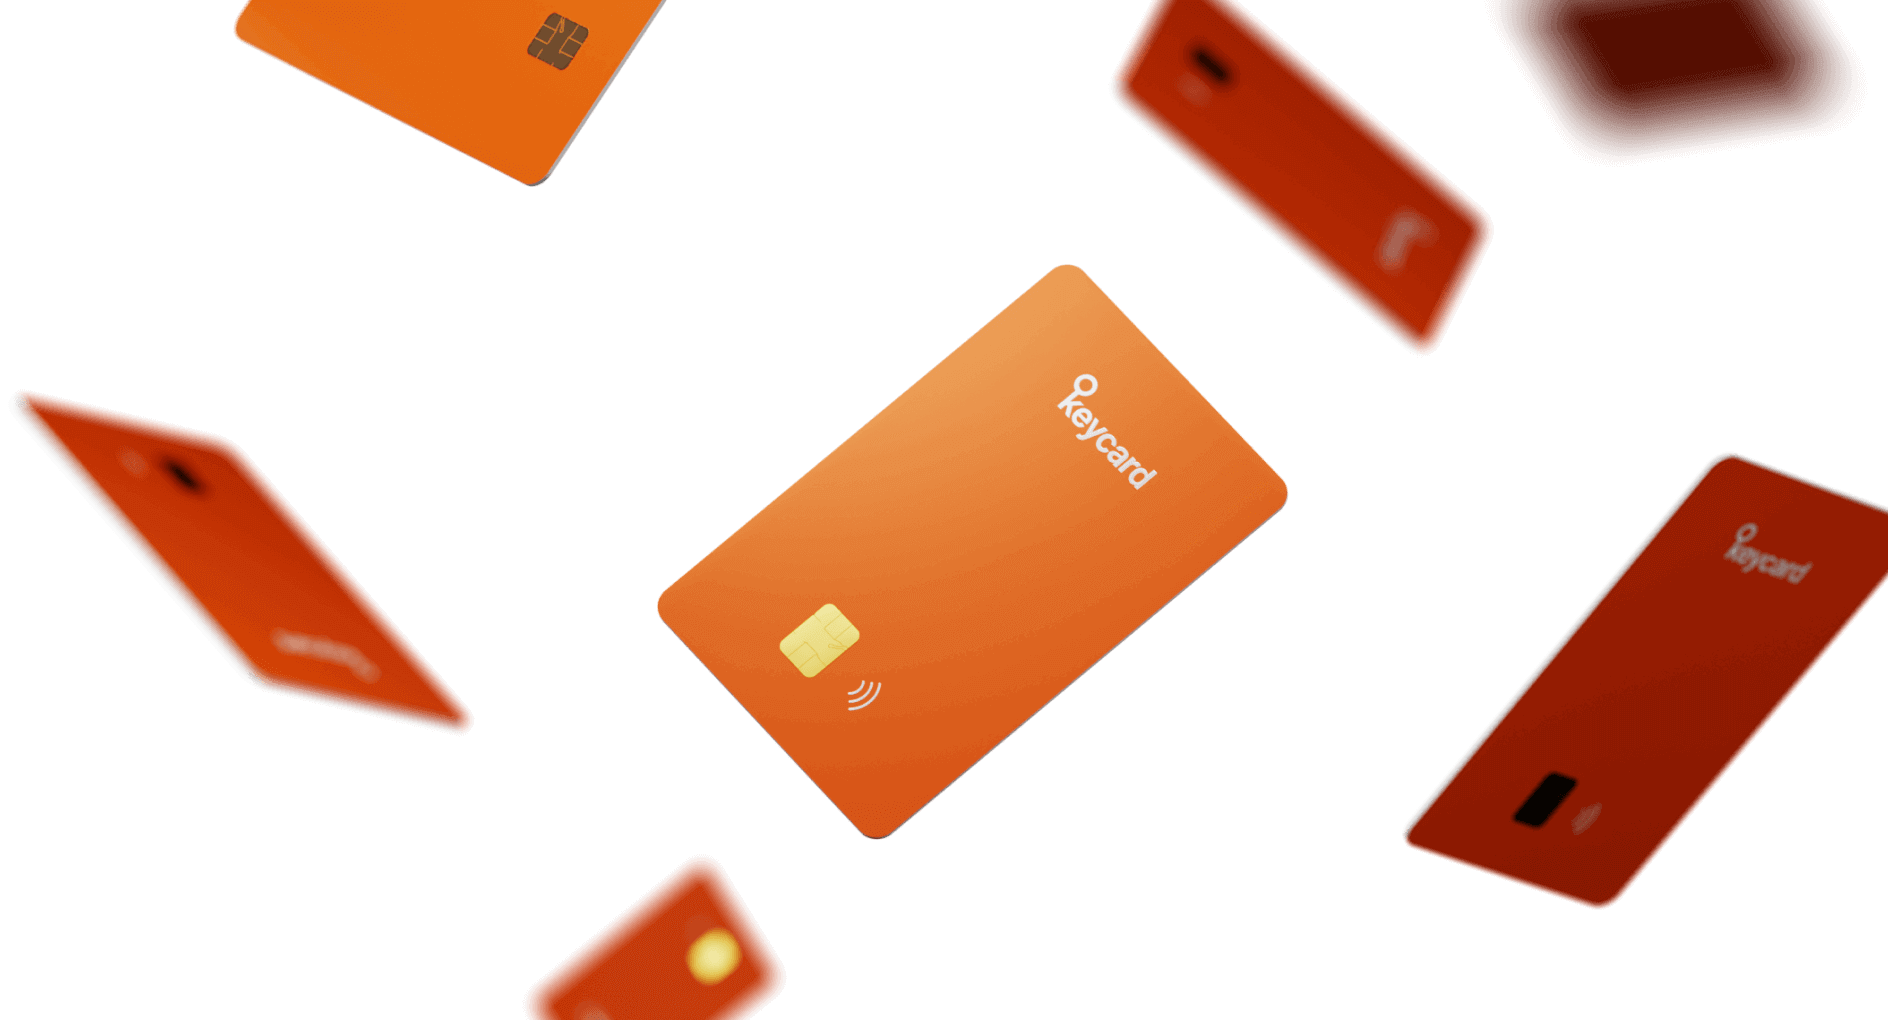
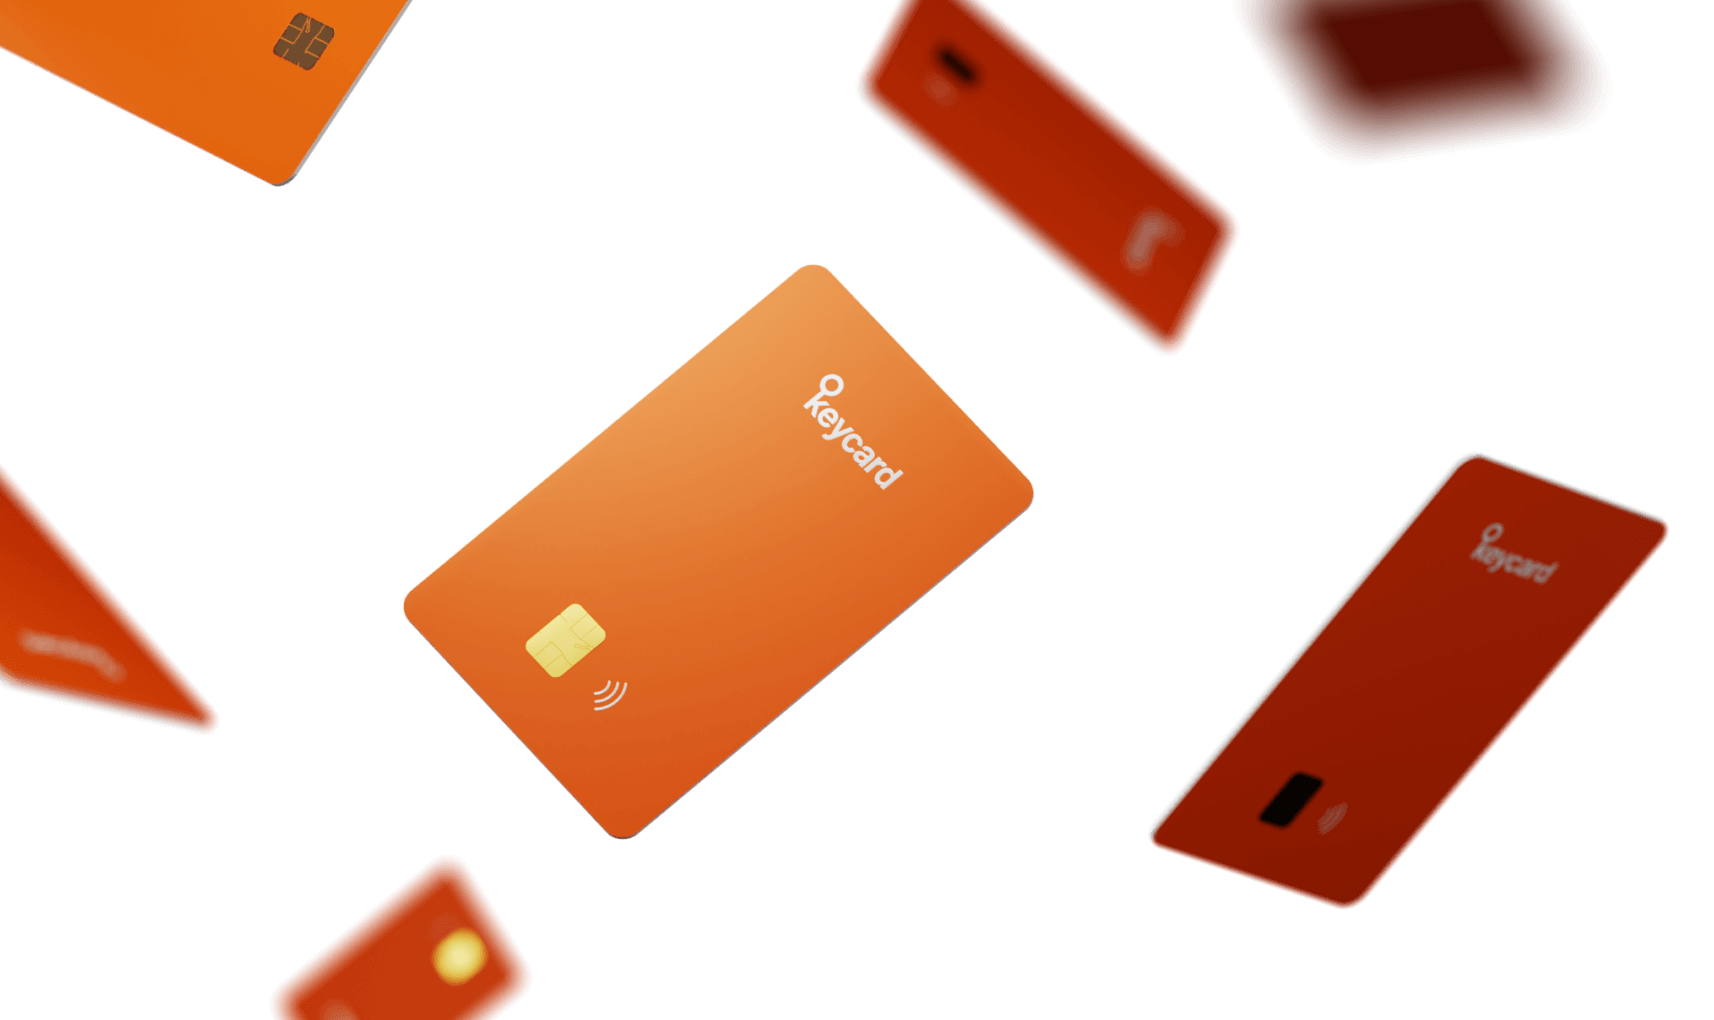
f

diff --git a/src/app/(with-navigation)/(homepage)/_components/keycard-shell.tsx b/src/app/(with-navigation)/(homepage)/_components/keycard-shell.tsx
@@ -1,18 +1,18 @@
 import { Button } from '~components/button'
 import { ButtonLink } from '~components/button-link'
-import { GetNotifiedDialog } from '~components/get-notified-dialog'
 import { Image } from '~components/image'
+import { PreOrderDialog } from '~components/pre-order-dialog'
 
 const KeycardShell = () => {
   return (
-    <section className="relative flex h-[calc(100svh-80px)] flex-col justify-end overflow-hidden rounded-b-28 border border-t-0 border-white-8 bg-white-4 backdrop-blur-[20px] full-view-port lg:h-auto lg:flex-row lg:items-center lg:justify-normal lg:remove-full-view-port">
+    <section className="relative flex h-[calc(100svh-80px-70px)] flex-col justify-between overflow-hidden rounded-t-28 border border-white-8 bg-white-4 backdrop-blur-[20px] full-view-port sm:h-[calc(100svh-80px-48px)] lg:h-auto lg:flex-row-reverse lg:items-center lg:justify-normal lg:remove-full-view-port">
       <div className="hidden max-h-[510px] flex-1 items-start justify-center overflow-hidden lg:flex">
         <Image
           src="/assets/keycard-shell.png"
           alt="Keycard Shell Hardware Wallet"
           width="758"
           height="758"
-          className="relative left-0 top-[-86px] object-cover object-center xl:top-[-128px] xl:object-contain"
+          className="relative right-0 top-[-86px] object-cover object-center xl:top-[-128px] xl:object-contain"
           priority
         />
       </div>
@@ -20,13 +20,13 @@ const KeycardShell = () => {
       <Image
         src="/assets/keycard-shell-mobile.png"
         alt="Keycard Shell Hardware Wallet"
-        width="900"
-        height="600"
-        className="self-end lg:hidden"
+        width="466"
+        height="466"
+        className="relative top-[-28px] w-full lg:hidden"
         priority
       />
 
-      <div className="relative z-10 -mt-16 flex max-w-[506px] flex-col px-5 pb-8 pt-0 lg:mt-0 lg:py-20 lg:pl-0 lg:pr-[72px]">
+      <div className="relative z-10 flex max-w-[434px] flex-col px-5 pb-5 lg:ml-[72px] lg:p-0">
         <p className="pb-2 text-24 font-600 text-white-95">
           keycard <span className="font-200">shell</span>
         </p>
@@ -40,9 +40,9 @@ const KeycardShell = () => {
           each with their own key.
         </p>
         <div className="flex gap-4">
-          <GetNotifiedDialog>
-            <Button>Get notified</Button>
-          </GetNotifiedDialog>
+          <PreOrderDialog>
+            <Button>Pre-order</Button>
+          </PreOrderDialog>
           <ButtonLink href="/keycard-shell" variant="secondary">
             Learn more
           </ButtonLink>

diff --git a/src/app/thank-you/page.tsx b/src/app/thank-you/page.tsx
@@ -1,10 +1,11 @@
 import { Background } from '~components/3d/background'
 import { Button } from '~components/button'
 import { ButtonLink } from '~components/button-link'
-import { GetNotifiedDialog } from '~components/get-notified-dialog'
 import { Link } from '~components/link'
 import { Logo } from '~components/logo'
+import { PreOrderDialog } from '~components/pre-order-dialog'
 import { cx } from 'cva'
+import Image from 'next/image'
 import { CheckoutUrlLink } from './_components/checkout-url-link'
 
 export default function ThankyouPage() {
@@ -43,28 +44,33 @@ export default function ThankyouPage() {
         className={cx(
           'absolute bottom-0 left-1/2 z-40 flex -translate-x-1/2 flex-col items-start justify-between gap-2 bg-white-8 p-1 pt-3 backdrop-blur-[20px] md:bottom-10',
           'rounded-16 border border-white-12 md:rounded-20',
-          'mx-auto w-full md:w-[570px] md:flex-row md:items-center md:gap-4 md:py-3 md:pl-5 md:pr-4',
+          'mx-auto w-full md:w-[570px] md:flex-row md:items-center md:gap-4 md:py-1 md:pl-1 md:pr-4',
         )}
       >
-        <div className="flex items-center gap-3 px-4 pb-4 md:px-0 md:pb-0">
-          <div className="flex flex-1 flex-col gap-0.5">
+        <div className="flex items-center gap-4 px-4 pb-4 md:px-0 md:pb-0">
+          <div className="flex size-16 items-center justify-center rounded-16 bg-dark-100">
+            <Image
+              src="/assets/pre-order-shell.png"
+              alt="Pre-order Shell"
+              width={48}
+              height={48}
+            />
+          </div>
+          <div className="flex flex-1 flex-col gap-0.5 py-2">
             <div className="font-lora text-20 text-white-95">
-              The future of hardware security
+              Want to up your game?
             </div>
             <div className="text-16 font-300 text-white-80">
-              Revealing soon. Coming 2025.
+              Keycard Shell is coming in 2025
             </div>
           </div>
         </div>
 
-        <GetNotifiedDialog>
-          <Button
-            variant="primary"
-            className="w-full justify-center md:w-fit md:justify-start"
-          >
-            Get notified
+        <PreOrderDialog>
+          <Button className="w-full justify-center md:w-fit md:justify-start">
+            Pre-order
           </Button>
-        </GetNotifiedDialog>
+        </PreOrderDialog>
       </div>
     </div>
   )

diff --git a/src/app/(with-navigation)/(homepage)/_components/keycard.tsx b/src/app/(with-navigation)/(homepage)/_components/keycard.tsx
@@ -5,23 +5,26 @@ import { ButtonLink } from '~components/button-link'
 import { BuyKeycardDialog } from '~components/buy-keycard-dialog'
 import { Image } from '~components/image'
 
-const Hero = () => {
+const Keycard = () => {
   return (
-    <section className="relative flex h-[calc(100svh-80px)] flex-col justify-end overflow-clip rounded-t-28 border border-white-8 bg-white-4 px-0 pt-0 full-view-port lg:h-auto lg:px-[72px] lg:py-20 lg:remove-full-view-port">
-      <Image
-        alt="Keycard"
-        src="/assets/hero-bg.png"
-        width={1600}
-        height={1600}
-        className="absolute bottom-0 right-0 z-0 hidden w-auto bg-cover bg-center lg:block"
-        priority
-      />
+    <section className="relative flex h-[calc(100svh-80px-70px)] flex-col justify-between overflow-clip rounded-b-28 border border-t-0 border-white-8 bg-white-4 px-0 pt-0 full-view-port sm:h-[calc(100svh-80px-48px)] lg:h-auto lg:flex-row lg:px-[72px] lg:py-20 lg:remove-full-view-port">
+      <div className="hidden max-h-[350px] flex-1 items-start justify-center lg:flex">
+        <Image
+          alt="Keycard"
+          src="/assets/cards-falling.png"
+          width={1354}
+          height={695}
+          className="relative left-[-72px] top-[-72px] scale-105 object-cover"
+          priority
+        />
+      </div>
+
       <Image
         alt="Keycard"
         src="/assets/hero-bg-mobile.png"
-        width={1600}
-        height={1600}
-        className="absolute right-0 top-0 block w-full bg-cover bg-center lg:hidden"
+        width="900"
+        height="600"
+        className="self-end lg:hidden"
         priority
       />
 
@@ -55,4 +58,4 @@ const Hero = () => {
   )
 }
 
-export { Hero }
+export { Keycard }

diff --git a/src/app/(with-navigation)/(homepage)/_components/buy-cards.tsx b/src/app/(with-navigation)/(homepage)/_components/buy-cards.tsx
@@ -3,8 +3,8 @@ import { formatPrice } from '~/app/_utils/format-price'
 import { Button } from '~components/button'
 import { ButtonLink } from '~components/button-link'
 import { BuyKeycardDialog } from '~components/buy-keycard-dialog'
-import { GetNotifiedDialog } from '~components/get-notified-dialog'
 import { Image } from '~components/image'
+import { PreOrderDialog } from '~components/pre-order-dialog'
 import { cx } from 'cva'
 
 type Props = {
@@ -101,9 +101,9 @@ const BuyCards = () => {
         description="Unrivalled security with an infinite number of removable Keycards, each with their own key."
         buttons={
           <>
-            <GetNotifiedDialog>
-              <Button>Get notified</Button>
-            </GetNotifiedDialog>
+            <PreOrderDialog>
+              <Button>Pre-order</Button>
+            </PreOrderDialog>
             <ButtonLink href="/keycard-shell" variant="secondary">
               Learn more
             </ButtonLink>

diff --git a/src/app/(with-navigation)/keycard-shell/_components/pre-footer.tsx b/src/app/(with-navigation)/keycard-shell/_components/pre-footer.tsx
@@ -1,6 +1,6 @@
 import { Button } from '~components/button'
-import { GetNotifiedDialog } from '~components/get-notified-dialog'
 import { Image } from '~components/image'
+import { PreOrderDialog } from '~components/pre-order-dialog'
 import { cx } from 'cva'
 
 const Prefooter = () => {
@@ -19,9 +19,9 @@ const Prefooter = () => {
           each with their own key.
         </p>
         <div className="flex flex-col items-start gap-5 sm:min-w-[410px] sm:flex-row sm:items-center">
-          <GetNotifiedDialog>
-            <Button variant="primary">Get notified</Button>
-          </GetNotifiedDialog>
+          <PreOrderDialog>
+            <Button>Pre-order</Button>
+          </PreOrderDialog>
           <p className="flex items-center gap-2 text-16 font-300 text-white-60 md:gap-2">
             Coming 2025 <span className="size-1 rounded-full bg-white-40" />{' '}
             Bundled with Keycard

diff --git a/src/app/(with-navigation)/keycard-shell/_components/hero.tsx b/src/app/(with-navigation)/keycard-shell/_components/hero.tsx
@@ -1,6 +1,6 @@
 import { Button } from '~components/button'
-import { GetNotifiedDialog } from '~components/get-notified-dialog'
 import { Image } from '~components/image'
+import { PreOrderDialog } from '~components/pre-order-dialog'
 
 const Hero = () => {
   return (
@@ -29,9 +29,9 @@ const Hero = () => {
               each with their own key.
             </p>
             <div className="flex flex-col items-start gap-5 md:flex-row md:items-center">
-              <GetNotifiedDialog>
-                <Button variant="primary">Get notified</Button>
-              </GetNotifiedDialog>
+              <PreOrderDialog>
+                <Button>Pre-order</Button>
+              </PreOrderDialog>
               <p className="flex items-center gap-2 text-16 font-300 text-white-60">
                 Coming 2025 <span className="size-1 rounded-full bg-white-40" />{' '}
                 Bundled with Keycard

diff --git a/src/app/(with-navigation)/keycard/_components/keycard-shell.tsx b/src/app/(with-navigation)/keycard/_components/keycard-shell.tsx
@@ -1,7 +1,7 @@
 import { Button } from '~components/button'
 import { ButtonLink } from '~components/button-link'
-import { GetNotifiedDialog } from '~components/get-notified-dialog'
 import { Image } from '~components/image'
+import { PreOrderDialog } from '~components/pre-order-dialog'
 
 const KeycardShell = () => {
   return (
@@ -36,9 +36,9 @@ const KeycardShell = () => {
           and modular.
         </p>
         <div className="flex gap-4">
-          <GetNotifiedDialog>
-            <Button>Get notified</Button>
-          </GetNotifiedDialog>
+          <PreOrderDialog>
+            <Button>Pre-order</Button>
+          </PreOrderDialog>
           <ButtonLink href="/keycard-shell" variant="secondary">
             Learn more
           </ButtonLink>

diff --git a/src/app/(with-navigation)/(homepage)/page.tsx b/src/app/(with-navigation)/(homepage)/page.tsx
@@ -3,7 +3,7 @@ import { AutoOpenBuyKeycardDialog } from './_components/auto-open-buy-keycard-di
 import { BuyCards } from './_components/buy-cards'
 import { ComparisonTable } from './_components/comparison-table'
 import { Faqs } from './_components/faqs'
-import { Hero } from './_components/hero'
+import { Keycard } from './_components/keycard'
 import { KeycardFeatures } from './_components/keycard-features'
 import { KeycardShell } from './_components/keycard-shell'
 
@@ -17,8 +17,8 @@ export default function HomePage() {
   return (
     <>
       <AutoOpenBuyKeycardDialog />
-      <Hero />
       <KeycardShell />
+      <Keycard />
       <KeycardFeatures />
       <ComparisonTable />
       <Faqs />
